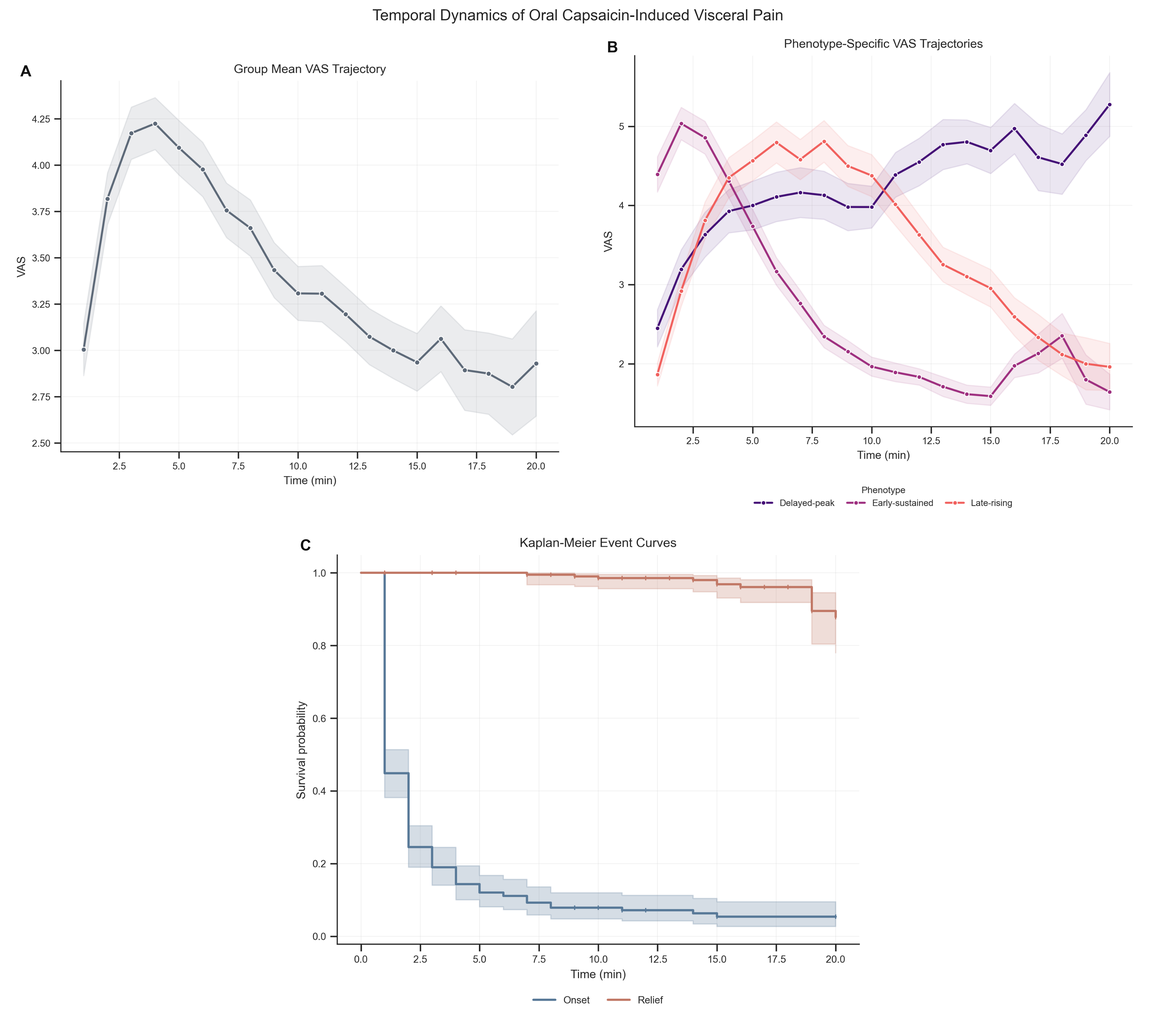
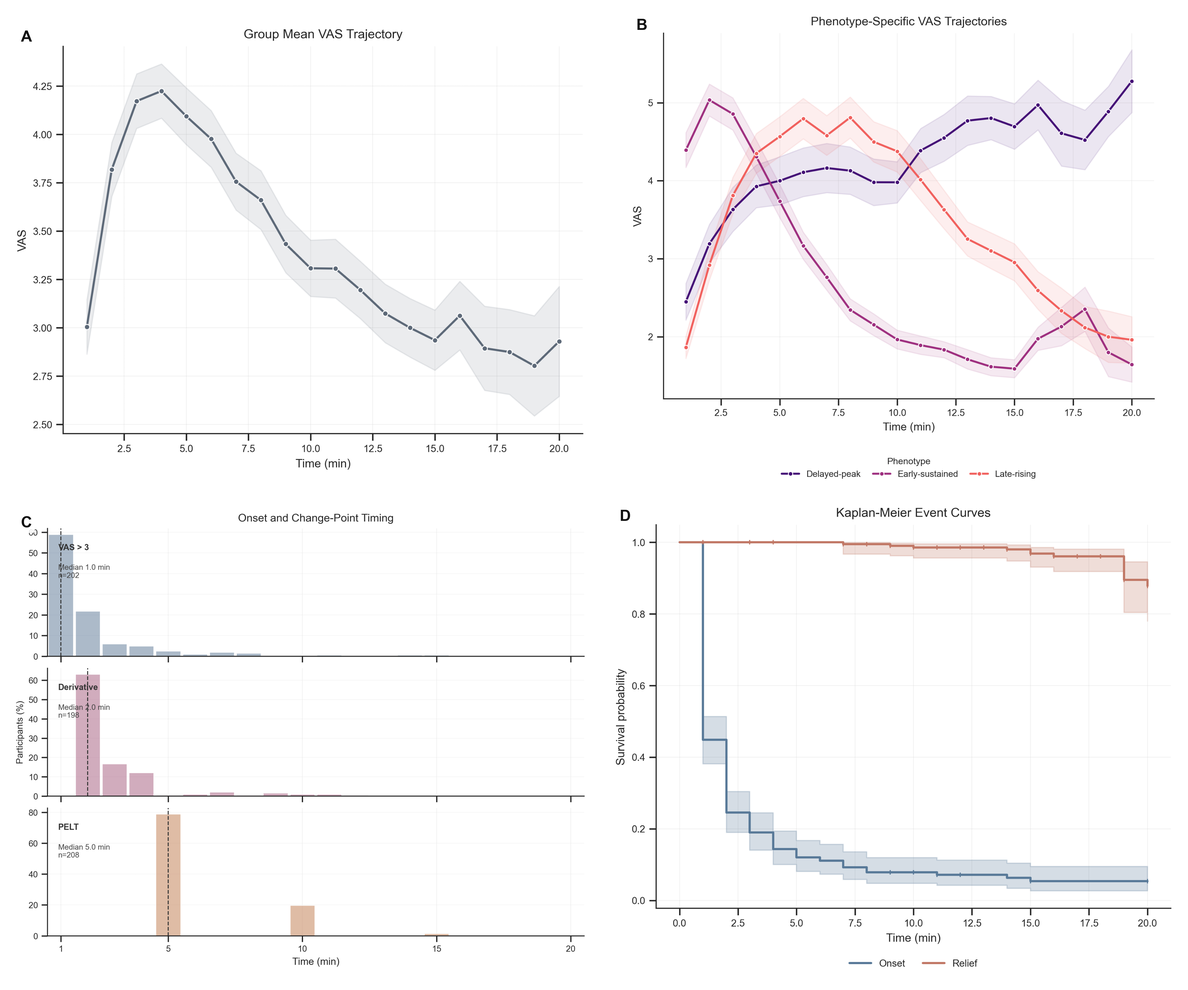
Sync manuscript and supplement figure references

diff --git a/analysis/figures/manuscript.py b/analysis/figures/manuscript.py
@@ -1145,11 +1145,11 @@ def generate_composite_figure1(output_path: str) -> None:
         panel_specs={
             "A": (generate_figure1, "A"),
             "B": (generate_figure2, "B"),
-            "C": (generate_figure10, "C"),
+            "C": (generate_figure9, "C"),
+            "D": (generate_figure10, "D"),
         },
-        mosaic=[["A", "B"], ["C", "C"]],
-        figsize=(12.4, 11.0),
-        suptitle="Temporal Dynamics of Oral Capsaicin-Induced Visceral Pain",
+        mosaic=[["A", "B"], ["C", "D"]],
+        figsize=(12.8, 10.6),
     )
 
 
@@ -1161,10 +1161,11 @@ def generate_composite_figure2(output_path: str) -> None:
         panel_specs={
             "A": (generate_figure3, "A"),
             "B": (generate_figure4, "B"),
+            "C": (generate_figure12, "C"),
+            "D": (generate_figure13, "D"),
         },
-        mosaic=[["A", "B"]],
-        figsize=(12.0, 5.8),
-        suptitle="Symptom and Spatial Burden of Capsaicin-Induced Visceral Pain",
+        mosaic=[["A", "B"], ["C", "D"]],
+        figsize=(12.8, 10.8),
     )
 
 
@@ -1175,11 +1176,12 @@ def generate_composite_figure3(output_path: str) -> None:
         output_path=output_path,
         panel_specs={
             "A": (generate_figure5, "A"),
-            "B": (generate_figure14, "B"),
+            "B": (generate_figure6, "B"),
+            "C": (generate_figure14, "C"),
+            "D": (generate_figure16, "D"),
         },
-        mosaic=[["A", "B"]],
-        figsize=(12.4, 5.8),
-        suptitle="Predictability of Pain Evolution and Temporal Phenotype",
+        mosaic=[["A", "B"], ["C", "D"]],
+        figsize=(12.8, 10.4),
     )
 
 

diff --git a/MANUSCRIPT.md b/MANUSCRIPT.md
@@ -140,9 +140,9 @@ Abbreviations: AES, Acute Exposure Score; BMI, body mass index; CCEI, Chronic Ca
 
 ![Figure 1. Temporal dynamics of oral capsaicin-induced visceral pain.](data/figures/figure1_temporal_dynamics_composite.png)
 
-*Caption:* Panel A shows the group-level mean VAS trajectory during the 20-minute observation period, with SEM uncertainty. Panel B shows mean VAS trajectories stratified by DTW-derived temporal phenotype. Panel C shows Kaplan-Meier curves for time to pain onset and time to pain relief.
+*Caption:* Panel A shows the group-level mean VAS trajectory during the 20-minute observation period, with SEM uncertainty. Panel B shows mean VAS trajectories stratified by DTW-derived temporal phenotype. Panel C shows the distributions of threshold-defined onset, derivative-defined onset, and PELT-derived change-point timing. Panel D shows Kaplan-Meier curves for time to pain onset and time to pain relief.
 
-The cohort mean VAS trajectory rose during the first 4 minutes, peaked at 4.22 at minute 4, and then declined while remaining above zero throughout follow-up (Figure 1A). Median threshold-defined onset occurred at 1.0 minute. The modal PELT change point occurred at minute 5, and the Kaplan-Meier median relief time was not reached within 20 minutes because only 12 of 216 participants met the relief criterion (Figure 1C). Among participants with calculable values, mean participant-level AUC was 53.17 VAS-minutes.
+The cohort mean VAS trajectory rose during the first 4 minutes, peaked at 4.22 at minute 4, and then declined while remaining above zero throughout follow-up (Figure 1A). Median threshold-defined onset occurred at 1.0 minute. The modal PELT change point occurred at minute 5 (Figure 1C), and the Kaplan-Meier median relief time was not reached within 20 minutes because only 12 of 216 participants met the relief criterion (Figure 1D). Among participants with calculable values, mean participant-level AUC was 53.17 VAS-minutes.
 
 ### Temporal phenotypes
 
@@ -154,15 +154,15 @@ DTW-based clustering identified three temporal patterns: delayed-peak responders
 
 ![Figure 2. Symptom and spatial burden of capsaicin-induced visceral pain.](data/figures/figure2_symptom_spatial_burden_composite.png)
 
-*Caption:* Panel A shows the ranked symptom burden across participants. Panel B shows the ranked burden of perceived anatomical regions.
+*Caption:* Panel A shows the ranked symptom burden across participants. Panel B shows the ranked burden of perceived anatomical regions. Panel C shows the symptom-region co-occurrence heatmap based on participant-level co-occurrence counts. Panel D shows the symptom-Rome IV-informed co-occurrence heatmap based on rule-mapped participant-level alignments.
 
 Across 216 participants, abdominal distension was the most frequent reported symptom (154/216, 71.3%), followed by nausea (85/216, 39.4%) and abdominal pain (84/216, 38.9%) (Figure 2A). The most frequently reported anatomical regions were the right hypochondrium (140/216, 64.8%) and hypogastrium (92/216, 42.6%) (Figure 2B).
 
-Rome IV-informed mapping aligned mainly with biliary pain-like (57/216, 26.4%), functional abdominal bloating/distension-like (35/216, 16.2%), and irritable bowel syndrome-like (25/216, 11.6%) patterns. These categories describe symptom-pattern alignment, not formal FGID diagnoses.
+Rome IV-informed mapping aligned mainly with biliary pain-like (57/216, 26.4%), functional abdominal bloating/distension-like (35/216, 16.2%), and irritable bowel syndrome-like (25/216, 11.6%) patterns (Figure 2D). These categories describe symptom-pattern alignment, not formal FGID diagnoses.
 
 ### Symptom-region network structure
 
-The symptom-region frequency matrix showed a non-uniform spatial distribution. The strongest co-occurrence edge linked abdominal distension with the right hypochondrium (weight=110). The right hypochondrium had the highest weighted degree (368), followed by the hypogastrium (267).
+The symptom-region frequency matrix showed a non-uniform spatial distribution (Figure 2C). The strongest co-occurrence edge linked abdominal distension with the right hypochondrium (weight=110), and the highest-intensity cells remained concentrated in the right hypochondrium and hypogastrium. The right hypochondrium had the highest weighted degree (368), followed by the hypogastrium (267).
 
 The tripartite network remained centered on the right hypochondrium and hypogastrium and connected most strongly to biliary pain-like, bloating/distension-like, and irritable bowel syndrome-like alignments. The grouped Sankey summary showed that all three temporal phenotypes converged onto overlapping symptom-region hubs, especially abdominal distension, nausea, abdominal pain, the right hypochondrium, and the hypogastrium, while `No Match` remained a common terminal Rome IV-informed state. Because the analysis used participant-level co-occurrence expansion, these findings describe recurrence patterns rather than one-to-one anatomical localization.
 
@@ -172,13 +172,13 @@ The tripartite network remained centered on the right hypochondrium and hypogast
 
 ![Figure 3. Predictability of pain evolution and temporal phenotype.](data/figures/figure3_prediction_composite.png)
 
-*Caption:* Panel A shows subject-level temporal phenotype classification as progressively longer early VAS windows are included. Panel B shows model performance for predicting whether the next VAS value will decrease.
+*Caption:* Panel A shows subject-level temporal phenotype classification as progressively longer early VAS windows are included. Panel B shows phenotype prediction performance from baseline demographic, questionnaire-derived, ECG, EGG, and coupling features. Panel C shows model performance for predicting whether the next VAS value will decrease. Panel D shows the confusion matrix from the best complementary baseline-plus-physiology classifier, annotated with counts and row-normalized percentages.
 
 Temporal phenotype classification improved as the early VAS window length increased (Figure 3A): accuracy was 0.615 without post-capsaicin trajectory information, 0.828 with an 8-minute window, and 0.902 with the full 20-minute trajectory.
 
-Short-term direction prediction of the next VAS change was moderate (Figure 3B). Logistic regression achieved balanced accuracy of 0.654 +/- 0.016 and macro F1 of 0.626 +/- 0.012, outperforming the majority baseline in class-balanced performance. Recent trajectory history carried some information about entry into the recovery phase.
+Short-term direction prediction of the next VAS change was moderate (Figure 3C). Logistic regression achieved balanced accuracy of 0.654 +/- 0.016 and macro F1 of 0.626 +/- 0.012, outperforming the majority baseline in class-balanced performance. Recent trajectory history carried some information about entry into the recovery phase.
 
-Prediction from baseline demographic and questionnaire-derived exposure-history and symptom features, together with ECG, EGG, and ECG-EGG coupling features, remained modest. In the primary model set, histogram-based gradient boosting achieved the highest mean accuracy (0.601), while random forest achieved the highest mean balanced accuracy (0.610). The measured baseline and physiological features did not classify phenotype membership with high accuracy.
+Prediction from baseline demographic and questionnaire-derived exposure-history and symptom features, together with ECG, EGG, and ECG-EGG coupling features, remained modest (Figure 3B). In the primary model set, histogram-based gradient boosting achieved the highest mean accuracy (0.601), while random forest achieved the highest mean balanced accuracy (0.610). The complementary confusion matrix also showed only partial separation across the three phenotypes (Figure 3D). The measured baseline and physiological features did not classify phenotype membership with high accuracy.
 
 ### Safety and adverse events
 
@@ -186,19 +186,19 @@ Nine participants (4.2%) experienced T-coded adverse events that ended the trial
 
 ## Discussion
 
-Oral capsaicin responses were temporally patterned and heterogeneous. At the cohort level, the VAS trajectory was biphasic, with rapid onset and slower resolution. At the participant level, responses separated into three partly overlapping temporal phenotypes rather than a single dominant response curve. Symptom analyses added spatial and symptom-construct context: abdominal distension was common, the right hypochondrium was the dominant network hub, and Rome IV-informed mapping linked experimental symptom profiles to biliary pain-like, bloating/distension-like, and irritable bowel syndrome-like constructs. Intensity summaries alone therefore provide an incomplete description of visceral pain across time, symptom quality, and perceived anatomical distribution [1-4,7,8].
+Oral capsaicin responses were temporally patterned and heterogeneous. At the cohort level, the VAS trajectory was biphasic, with rapid onset and slower resolution (Figure 1A,D). At the participant level, responses separated into three partly overlapping temporal phenotypes rather than a single dominant response curve (Figure 1B). Symptom analyses added spatial and symptom-construct context: abdominal distension was common, the right hypochondrium was the dominant network hub, and Rome IV-informed mapping linked experimental symptom profiles to biliary pain-like, bloating/distension-like, and irritable bowel syndrome-like constructs (Figure 2A-D). Intensity summaries alone therefore provide an incomplete description of visceral pain across time, symptom quality, and perceived anatomical distribution [1-4,7,8].
 
-The temporal findings support response-shape analysis alongside conventional static summaries. Median onset occurred within 1 minute, the main change point clustered around minute 5, and median relief was not reached during the 20-minute observation period. Peak VAS and AUC would capture these features only partly, even though such endpoints remain common in experimental pain studies and broader pain assessment frameworks [24-27]. The present data suggest that the oral capsaicin model can distinguish onset, persistence, and recovery as separate phases of the same response [26,27].
+The temporal findings support response-shape analysis alongside conventional static summaries. Median onset occurred within 1 minute, the main change point clustered around minute 5, and median relief was not reached during the 20-minute observation period (Figure 1C,D). Peak VAS and AUC would capture these features only partly, even though such endpoints remain common in experimental pain studies and broader pain assessment frameworks [24-27]. The present data suggest that the oral capsaicin model can distinguish onset, persistence, and recovery as separate phases of the same response [26,27].
 
 The observed early rise followed by slower decline is physiologically plausible in light of prior capsaicin and TRPV1 literature. Capsaicin activates TRPV1-expressing visceral afferents and can evoke burning, cramping, nausea, and distension-like sensations in the upper gastrointestinal tract [12,14-18]. Prior work also suggests that TRPV1 signaling is dynamic, with downstream modulation and calcium-dependent desensitization shaping responses after initial activation [15,16,20-22]. The present study does not test receptor-level mechanisms. The combination of rapid onset, delayed recovery, and between-subject variability is consistent with a time-dependent sensory process rather than a brief impulse-like event [17,24,25].
 
-The clustering results argue against treating oral capsaicin pain as a single canonical curve. DTW preserved shape information when peak timing varied between participants, and fuzzy clustering showed that phenotype boundaries were not sharp. The three phenotypes are best interpreted as recurring response patterns rather than fixed biological subtypes. That interpretation aligns with literature showing that pain and FGID-related symptom data often contain structured heterogeneity rather than one homogeneous presentation [2,7,8,26,31]. The labels delayed-peak, early-sustained, and late-rising are descriptive. Even so, the convergence of DTW clustering, fuzzy assignment, early-window classification, and shapelet-level local motifs suggests that these patterns are not arbitrary analytic artifacts. Independent replication and stronger physiological anchoring are still needed before investigators treat them as disease entities.
+The clustering results argue against treating oral capsaicin pain as a single canonical curve. DTW preserved shape information when peak timing varied between participants, and fuzzy clustering showed that phenotype boundaries were not sharp (Figure 1B). The three phenotypes are best interpreted as recurring response patterns rather than fixed biological subtypes. That interpretation aligns with literature showing that pain and FGID-related symptom data often contain structured heterogeneity rather than one homogeneous presentation [2,7,8,26,31]. The labels delayed-peak, early-sustained, and late-rising are descriptive. Even so, the convergence of DTW clustering, fuzzy assignment, early-window classification, and shapelet-level local motifs suggests that these patterns are not arbitrary analytic artifacts. Independent replication and stronger physiological anchoring are still needed before investigators treat them as disease entities.
 
-Symptom-region mapping showed that capsaicin-induced sensations were unevenly distributed across anatomical regions. The right hypochondrium and hypogastrium dominated the network, especially through abdominal distension, nausea, and abdominal pain. The supplementary Sankey view adds that the temporal phenotypes did not branch into fully separate symptom repertoires; instead, they flowed back into a shared set of symptom-region hubs and then into a small number of dominant Rome IV-informed endpoints, with a substantial `No Match` remainder that reflects the conservative rule-based mapping. This spatial concentration may inform region-aware symptom assessment, although it should not be read as an anatomical map of nociceptive origin. Network-based symptom analyses describe how complaints cluster across participants; they do not identify a single underlying organ source [29,30,37-39].
+Symptom-region mapping showed that capsaicin-induced sensations were unevenly distributed across anatomical regions. Figure 2A-C shows that abdominal distension, nausea, and abdominal pain clustered disproportionately in the right hypochondrium and hypogastrium rather than spreading evenly across the abdominal map. The supplementary Sankey view adds that the temporal phenotypes did not branch into fully separate symptom repertoires; instead, they flowed back into a shared set of symptom-region hubs and then into a small number of dominant Rome IV-informed endpoints, with a substantial `No Match` remainder that reflects the conservative rule-based mapping. This spatial concentration may inform region-aware symptom assessment, although it should not be read as an anatomical map of nociceptive origin. Network-based symptom analyses describe how complaints cluster across participants; they do not identify a single underlying organ source [29,30,37-39].
 
-The Rome IV-informed categories require cautious interpretation. The mapping assessed symptom overlap with Rome IV constructs; it did not diagnose FGIDs or incorporate the chronicity requirements central to Rome IV classification [7,8,10,11]. Even so, the observed biliary pain-like, bloating/distension-like, and irritable bowel syndrome-like patterns show that an acute experimental provocation can generate symptom constellations resembling clinically recognized constructs at the level of phenomenology. The capsaicin model may help probe components of symptom generation that later become embedded in disorders of gut-brain interaction, while remaining distinct from patient diagnosis [7,8,10].
+The Rome IV-informed categories require cautious interpretation. The mapping assessed symptom overlap with Rome IV constructs; it did not diagnose FGIDs or incorporate the chronicity requirements central to Rome IV classification [7,8,10,11]. Even so, the observed biliary pain-like, bloating/distension-like, and irritable bowel syndrome-like patterns in Figure 2D show that an acute experimental provocation can generate symptom constellations resembling clinically recognized constructs at the level of phenomenology. The capsaicin model may help probe components of symptom generation that later become embedded in disorders of gut-brain interaction, while remaining distinct from patient diagnosis [7,8,10].
 
-The prediction analyses separated trajectory information from pre-exposure information. Early VAS windows improved phenotype classification, indicating that trajectory shape becomes informative within the first minutes after exposure. By 8 minutes, classification accuracy had increased to 0.828; by 20 minutes, phenotype membership was largely recoverable from the observed trajectory history, as expected because the clustering outcome was trajectory-derived. Baseline demographic and questionnaire-derived exposure-history and symptom features, together with ECG, EGG, and ECG-EGG coupling features, showed only modest discrimination. In this experimental setting, the evolving pain signal contained more phenotype-specific information than the pre-exposure feature set. This distinction matters for intervention-oriented work: the model appears better suited to dynamic phenotyping and early response stratification than to baseline-only prediction.
+The prediction analyses separated trajectory information from pre-exposure information. Early VAS windows improved phenotype classification, indicating that trajectory shape becomes informative within the first minutes after exposure (Figure 3A). By 8 minutes, classification accuracy had increased to 0.828; by 20 minutes, phenotype membership was largely recoverable from the observed trajectory history, as expected because the clustering outcome was trajectory-derived. Baseline demographic and questionnaire-derived exposure-history and symptom features, together with ECG, EGG, and ECG-EGG coupling features, showed only modest discrimination (Figure 3B,D). In this experimental setting, the evolving pain signal contained more phenotype-specific information than the pre-exposure feature set. This distinction matters for intervention-oriented work: the model appears better suited to dynamic phenotyping and early response stratification than to baseline-only prediction.
 
 Several limitations should guide interpretation. First, the capsaicin model captures acute experimental discomfort rather than chronic disease, so translation to FGID populations is indirect. Second, VAS remains a subjective outcome, even when sampled densely. Third, cluster structure may shift with analytic choices, including distance metric, censoring rules, and cluster number. Fourth, the Rome IV-informed mapping was rule-based and symptom-limited and cannot substitute for formal clinical phenotyping. Fifth, the physiological feature set was insufficient for mechanistic inference. Sixth, the study did not assess between-session test-retest stability, so reliability at this stage should be understood as within-protocol structural coherence rather than longitudinal reproducibility. T-coded adverse events were self-limited and no serious adverse events occurred, but early trial termination in a subset of participants indicates that tolerability remains part of the model's operating boundary. Future studies should test phenotype stability in independent cohorts, add autonomic, neuroimaging, or molecular measures, refine symptom mapping with temporal criteria, and assess whether temporal response patterns predict patient outcomes or intervention response.
 

diff --git a/supplementary_latest.md b/supplementary_latest.md
@@ -2,7 +2,7 @@
 
 **Supplementary Material for:** "Temporal Dynamics and Phenotypic Heterogeneity in Oral Capsaicin-Induced Human Visceral Pain"
 
-The appendix provides methodological detail, interpretation of the supplementary figures and tables, and reporting material for the intervention and observational design. The main manuscript presents the core narrative; this appendix preserves analytic detail, auxiliary visualizations, and reporting artifacts that may help reviewers assess reproducibility and interpretation.
+The appendix provides methodological detail, interpretation of the supplementary figures and tables, and reporting material for the intervention and observational design. The main manuscript presents the core narrative through three four-panel composite figures; this appendix preserves the corresponding standalone panels, additional auxiliary visualizations, and reporting artifacts that may help reviewers assess reproducibility and interpretation.
 
 Citation numbers in this appendix follow the main manuscript reference list.
 
@@ -24,11 +24,13 @@ The baseline phenotype-prediction matrix contained demographic variables, questi
 
 ECG-derived variables included heart-rate-variability and signal-quality measures. EGG-derived variables included dominant frequency, power, rhythm-band proportions, entropy, flatness, instability, and signal-quality indices. ECG-EGG coupling variables included cross-correlation, lag, coherence, energy ratio, and heart rate-EGG correlation summaries. Missing values were imputed with column medians.
 
-The primary model set included class-balanced logistic regression, class-balanced random forest, gradient boosting, histogram-based gradient boosting, multilayer perceptron with early stopping, and a stacking ensemble. Stratified ten-fold cross-validation estimated model performance, with balanced accuracy and macro F1 as the primary metrics. A complementary classifier family used the same encoded matrix to generate the feature-importance and confusion-matrix summaries shown in Figures 16 and 17.
+The primary model set included class-balanced logistic regression, class-balanced random forest, gradient boosting, histogram-based gradient boosting, multilayer perceptron with early stopping, and a stacking ensemble. Stratified ten-fold cross-validation estimated model performance, with balanced accuracy and macro F1 as the primary metrics. A complementary classifier family used the same encoded matrix to generate the feature-importance and confusion-matrix summaries shown in Figures 15 and 16.
 
 These analyses tested whether pre-exposure trait-like information could predict temporal phenotype membership without the evolving pain trajectory. The feature matrix is a heterogeneous baseline descriptor set, not a mechanistically unified biomarker panel. The supplementary feature-importance outputs rank variables that contributed within the fitted models; they do not identify stable causal determinants of phenotype membership.
 
 ## Supplementary Results
+
+Figures 4-16 provide standalone views or additional diagnostics for analyses that are condensed into the composite main-text Figures 1-3.
 
 ### S3. Early-window temporal phenotype classification
 
@@ -37,6 +39,8 @@ These analyses tested whether pre-exposure trait-like information could predict 
 ![Figure 4. Early VAS window phenotype classification.](data/figures/figure5_early_window_classification.png)
 
 *Legend:* Subject-level temporal phenotype classification performance as progressively longer early VAS windows are included.
+
+This standalone panel corresponds to the early-window classification summary incorporated into main-text Figure 3A.
 
 Classification performance increased with longer early VAS windows. The best-performing model at 0 minutes was ExtraTrees, with accuracy 0.615 and balanced accuracy 0.632. At 3 minutes, histogram-based gradient boosting reached accuracy 0.726 and balanced accuracy 0.722. At 5 minutes, ExtraTrees reached accuracy 0.792 and balanced accuracy 0.790. At 8 minutes, sparse logistic regression reached accuracy 0.828 and balanced accuracy 0.821. At 20 minutes, sparse logistic regression reached accuracy 0.902 and balanced accuracy 0.897.
 
@@ -49,6 +53,8 @@ The stepwise performance gain across longer windows indicates that phenotype-rel
 ![Figure 5. Baseline and physiological phenotype prediction.](data/figures/figure6_baseline_prediction_performance.png)
 
 *Legend:* Cross-validated performance of models predicting temporal phenotype membership from baseline demographic and questionnaire-derived exposure-history and symptom features, together with ECG, EGG, and ECG-EGG coupling features.
+
+This standalone panel corresponds to the baseline-plus-physiology prediction summary incorporated into main-text Figure 3B.
 
 Across the primary model set, histogram-based gradient boosting achieved the highest mean accuracy (0.601 +/- 0.126), whereas random forest achieved the highest mean balanced accuracy (0.610 +/- 0.083). Logistic regression reached accuracy 0.527 and balanced accuracy 0.544. Multilayer perceptron showed the lowest performance.
 
@@ -82,6 +88,8 @@ Visual separation in a subset of features did not translate into strong multivar
 
 *Legend:* Threshold-defined onset, derivative-defined onset, and PELT-derived change-point timing for individual VAS trajectories after capsaicin administration.
 
+This standalone panel corresponds to the timing summary incorporated into main-text Figure 1C.
+
 Most PELT change points occurred at minute 5 (164 participants), with smaller concentrations at minutes 10 (41 participants) and 15 (3 participants).
 
 The concentration around minute 5 provides an empirical anchor for a common early transition from rise to stabilization or decline. It also supports trajectory-oriented analyses, because the timing structure was not uniformly distributed across the observation window.
@@ -91,6 +99,8 @@ The concentration around minute 5 provides an empirical anchor for a common earl
 ![Figure 9. Kaplan-Meier event curves for onset and relief.](data/figures/figure10_survival_curves.png)
 
 *Legend:* Kaplan-Meier curves for time to pain onset and time to pain relief after oral capsaicin administration.
+
+This standalone panel corresponds to the survival summary incorporated into main-text Figure 1D.
 
 Median onset occurred at 1.0 minute. Median relief was not reached within follow-up because only 12 of 216 participants met the relief criterion.
 
@@ -114,6 +124,8 @@ These local motifs help explain why DTW-based clustering separated the phenotype
 
 *Legend:* Participant-level co-occurrence counts between reported symptom categories and anatomical regions after capsaicin administration.
 
+This standalone panel corresponds to the symptom-region heatmap incorporated into main-text Figure 2C.
+
 The largest co-occurrence counts were concentrated in the right hypochondrium and hypogastrium, particularly for abdominal distension, nausea, and abdominal pain.
 
 The visualization distinguishes recurrent symptom-region combinations from isolated reports. It shows which symptom-region pairings dominated the cohort-level experiential profile, not which anatomical site generated the sensation.
@@ -123,6 +135,8 @@ The visualization distinguishes recurrent symptom-region combinations from isola
 ![Figure 12. Symptom-Rome IV co-occurrence heatmap.](data/figures/figure13_symptom_rome_heatmap.png)
 
 *Legend:* Associations between reported symptom categories and Rome IV-informed symptom-pattern alignments generated by the rule-based mapping framework.
+
+This standalone panel corresponds to the symptom-Rome IV-informed heatmap incorporated into main-text Figure 2D.
 
 Abdominal distension and abdominal pain contributed across biliary pain-like, bloating/distension-like, and irritable bowel syndrome-like alignments.
 
@@ -168,6 +182,8 @@ The Sankey view emphasizes that the three temporal phenotypes did not differ onl
 
 *Legend:* Performance for short-term prediction of whether the next VAS value would decrease, comparing majority, persistence-direction, and logistic regression models.
 
+This standalone panel corresponds to the short-term direction-prediction summary incorporated into main-text Figure 3C.
+
 Logistic regression achieved the highest balanced accuracy (0.654 +/- 0.016) and macro F1 (0.626 +/- 0.012). The majority classifier yielded higher raw accuracy because of class imbalance but remained at balanced accuracy 0.500. The persistence-direction model showed intermediate performance.
 
 The divergence between raw accuracy and balanced accuracy reflects the imbalance in direction labels. The logistic model's improvement in balanced accuracy reflects better discrimination across both classes, not a simple tendency to predict the majority state.
@@ -198,6 +214,8 @@ The ranked variables identify predictors that contributed within this fitted mod
 
 *Legend:* Out-of-fold temporal phenotype predictions from the best-performing complementary classifier (random forest).
 
+This standalone panel corresponds to the confusion-matrix summary incorporated into main-text Figure 3D.
+
 The confusion matrix showed partial separation across the three temporal phenotypes.
 
 The matrix suggests partial overlap between neighboring response patterns, consistent with recurring temporal patterns along a continuum rather than rigidly separated classes.
@@ -226,7 +244,7 @@ The timing analyses clarify that early divergence does not imply a single unifor
 
 Figure 10 adds a local view of the trajectory signal. Each panel places the highlighted shapelet inside its underlying trajectory, showing that similar absolute intensities can belong to different temporal contexts: a value of moderate intensity may represent a rising segment in one phenotype, a plateau in another, or a declining segment in a third. That distinction explains why shape-based methods such as DTW and shapelets are useful for trajectory phenotyping [33-36]. In the present dataset, delayed-peak motifs had deferred maxima followed by decline, early-sustained motifs had relatively flat or slowly resolving plateaus, and late-rising motifs had upward fragments appearing later in the observation period. The supplementary figure helps explain how the clustering retained temporal organization even when trajectories overlapped at individual time points.
 
-Figures 6, 7, 8, 16, and 17 suggest that baseline demographic, exposure-history, symptom, ECG, EGG, and ECG-EGG coupling variables contained some between-phenotype structure, but not enough for high-accuracy phenotype recovery. Age distributions overlapped, standardized physiology features showed partial visual separation, and complementary classifier diagnostics indicated incomplete class discrimination. The temporal phenotypes recurred within this dataset, but the available pre-exposure feature set did not predict phenotype membership with high accuracy. The present baseline matrix captures some trait-like variability, but it does not constitute a stable biomarker panel for phenotype assignment.
+Figures 5, 6, 7, 15, and 16 suggest that baseline demographic, exposure-history, symptom, ECG, EGG, and ECG-EGG coupling variables contained some between-phenotype structure, but not enough for high-accuracy phenotype recovery. Age distributions overlapped, standardized physiology features showed partial visual separation, and complementary classifier diagnostics indicated incomplete class discrimination. The temporal phenotypes recurred within this dataset, but the available pre-exposure feature set did not predict phenotype membership with high accuracy. The present baseline matrix captures some trait-like variability, but it does not constitute a stable biomarker panel for phenotype assignment.
 
 The symptom-region and Rome IV-informed analyses extend the interpretation from time-course structure to phenomenological structure. Figures 11, 12, and 13, together with Tables S1 and S2, show that the cohort-level experience was not spatially or symptomatically diffuse. Repeated pairings centered on the right hypochondrium and hypogastrium, and several symptom categories contributed across biliary pain-like, bloating/distension-like, and irritable bowel syndrome-like alignments. Figure 13 further shows that these alignments were reached through overlapping phenotype-to-symptom-region flows rather than through fully segregated phenotype-specific branches. These pairings indicate that oral capsaicin evokes more than a unitary "pain intensity" response. It produces structured constellations of discomfort, distension, nausea, and regionally perceived sensations that can overlap with clinically recognized symptom constructs at the level of phenomenology [7,8,10,11,24,25,31].
 
